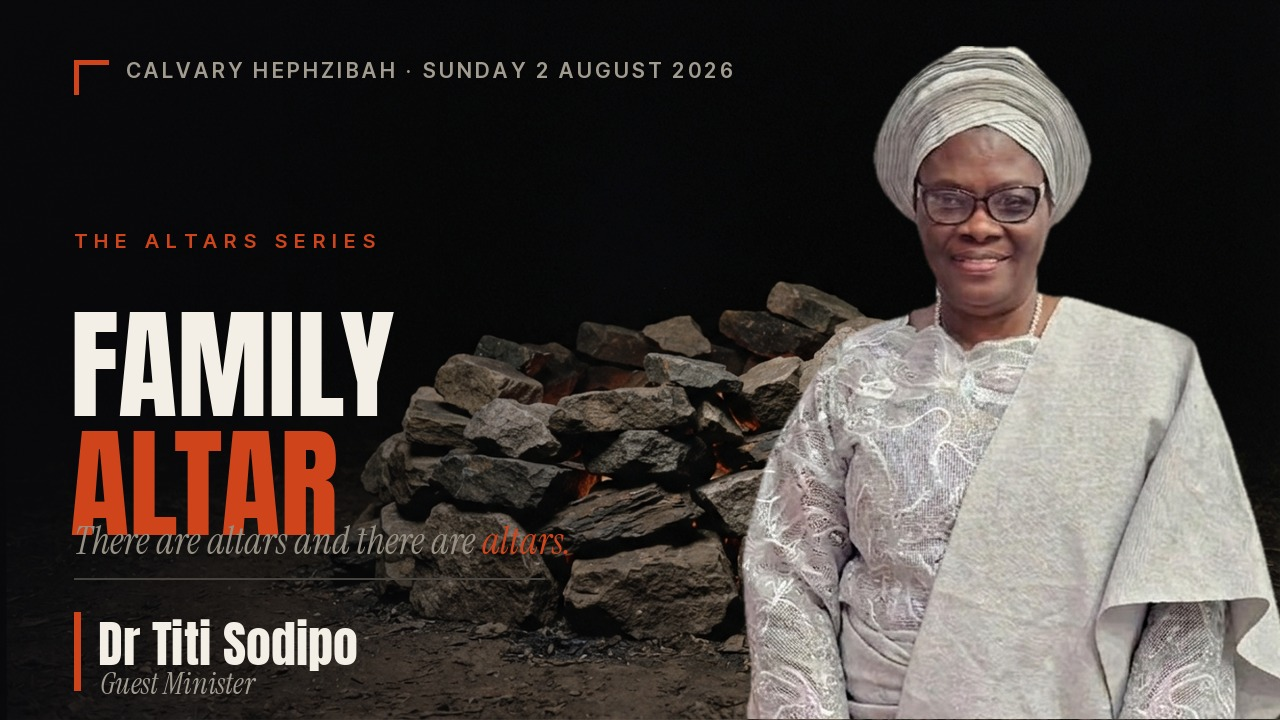
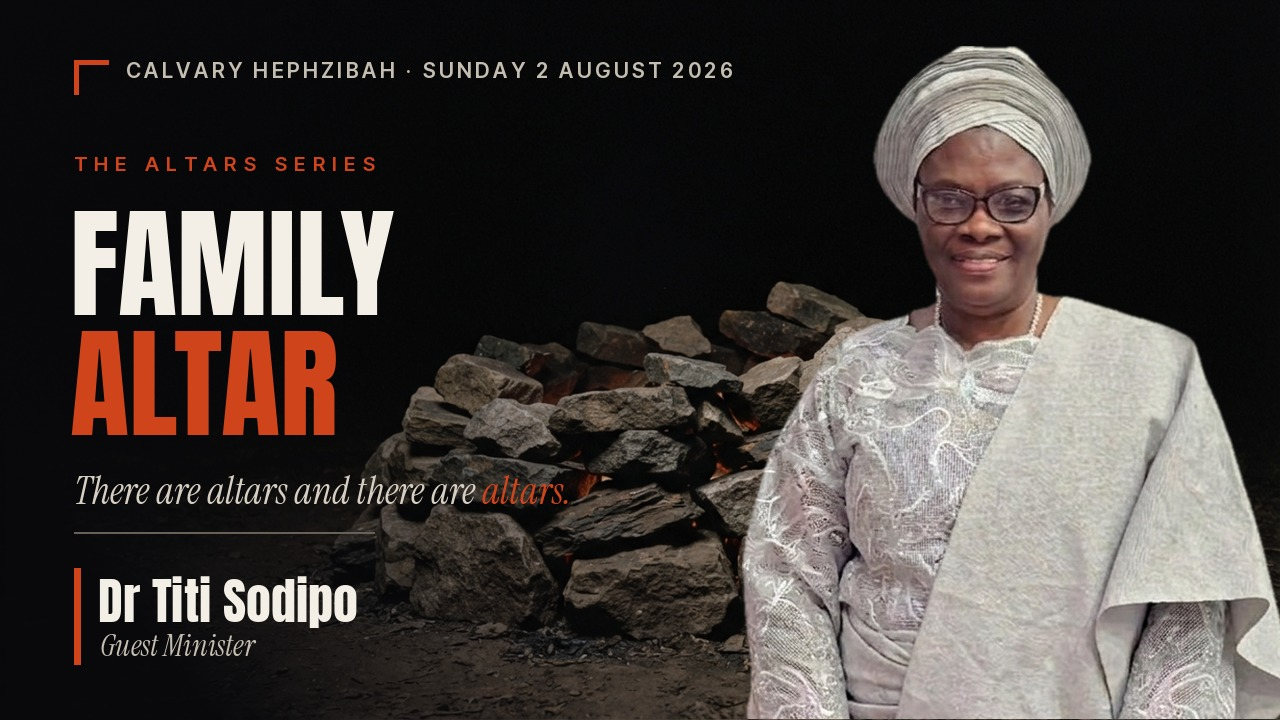
02 Aug 2026: Fix thumbnail spacing and contrast — ink-box layout, no title/series-line collision

diff --git a/media-briefing-02-aug-2026.html b/media-briefing-02-aug-2026.html
@@ -6,11 +6,11 @@
     <title>Calvary Service Run Sheet – 2nd August 2026</title>
     <meta property="og:title" content="Calvary Service Run Sheet – 2nd August 2026">
     <meta property="og:description" content="Sunday 2nd August 2026 | Family Altar | ALTARS series | Dr Titi Sodipo · Guest Minister | Calvary Hephzibah">
-    <meta property="og:image" content="https://calvaryhfgc.github.io/calvaryhephzibah/sermon-thumbnail-02-aug-2026.jpg?v=3">
+    <meta property="og:image" content="https://calvaryhfgc.github.io/calvaryhephzibah/sermon-thumbnail-02-aug-2026.jpg?v=4">
     <meta property="og:image:width" content="1280">
     <meta property="og:image:height" content="720">
     <meta name="twitter:card" content="summary_large_image">
-    <meta name="twitter:image" content="https://calvaryhfgc.github.io/calvaryhephzibah/sermon-thumbnail-02-aug-2026.jpg?v=3">
+    <meta name="twitter:image" content="https://calvaryhfgc.github.io/calvaryhephzibah/sermon-thumbnail-02-aug-2026.jpg?v=4">
     <link rel="preconnect" href="https://fonts.googleapis.com">
     <link rel="preconnect" href="https://fonts.gstatic.com" crossorigin>
     <link href="https://fonts.googleapis.com/css2?family=Cormorant+Garamond:wght@600;700&family=DM+Sans:wght@400;500;600;700&display=swap" rel="stylesheet">
@@ -243,7 +243,7 @@
             <div class="serm-preacher">Dr Titi Sodipo · Guest Minister</div>
             <h3 class="serm-title">Family Altar</h3>
             <div style="font-size:13px;color:rgba(255,255,255,0.6);margin-bottom:14px;">Passage TBC</div>
-            <img src="https://calvaryhfgc.github.io/calvaryhephzibah/sermon-thumbnail-02-aug-2026.jpg?v=3" alt="Dr Titi Sodipo — Family Altar" class="serm-thumb">
+            <img src="https://calvaryhfgc.github.io/calvaryhephzibah/sermon-thumbnail-02-aug-2026.jpg?v=4" alt="Dr Titi Sodipo — Family Altar" class="serm-thumb">
             <div class="serm-note"><span>💡</span><span>Display sermon thumbnail for 30 seconds as Dr Titi Sodipo comes up to preach.</span></div>
         </div>
     </div>

diff --git a/series/altars/render_altars_episode.py b/series/altars/render_altars_episode.py
@@ -21,8 +21,8 @@ from PIL import Image, ImageDraw, ImageFont, ImageEnhance
 W, H = 1280, 720
 BONE = (244, 239, 230)
 RED = (208, 68, 28)
-GREY = (162, 156, 144)
-FG3 = (150, 144, 132)
+GREY = (196, 189, 177)
+FG3 = (214, 206, 194)
 IS_URL = "https://raw.githubusercontent.com/google/fonts/main/ofl/instrumentserif/InstrumentSerif-Italic.ttf"
 
 
@@ -59,7 +59,13 @@ def render(a):
     # ---- left scrim so the type never fights the stones ----
     arr = np.array(img).astype(float)
     xs = np.linspace(0, 1, W)[None, :, None]
-    scrim = np.clip((a.scrim_edge - xs) / a.scrim_edge, 0, 1) ** 1.4 * a.scrim_strength
+    ys = np.linspace(0, 1, H)[:, None, None]
+    left = np.clip((a.scrim_edge - xs) / a.scrim_edge, 0, 1) ** 1.4
+    scrim = left * a.scrim_strength
+    # bottom-left falloff: the series line, rule and preacher block sit low-left,
+    # where stone highlights spike to ~120 and swallow the muted grey type.
+    floor = left * np.clip((ys - a.floor_start) / (1 - a.floor_start), 0, 1) ** 1.2 * a.floor_strength
+    scrim = np.clip(scrim + floor, 0, 0.985)
     arr = arr * (1 - scrim) + np.array([9, 9, 12], float) * scrim
     img = Image.fromarray(arr.clip(0, 255).astype(np.uint8))
 
@@ -84,11 +90,24 @@ def render(a):
     d.rectangle([LM, 60, LM + 4, 94], fill=RED)
     tracked(d, (LM + 52, 57), a.eyebrow, ImageFont.truetype(inter, 21), GREY, 0.16)
 
-    # ---- series badge ----
-    badge_y = a.top
-    tracked(d, (LM, badge_y), a.badge, ImageFont.truetype(inter, 20), RED, 0.36)
+    # ------------------------------------------------------------------
+    # Everything below is positioned by INK BOX, not by nominal line
+    # height. Anton carries a lot of internal leading, so laying out on
+    # nominal y collides the serif line into the title's descender zone.
+    # place(font, text, ink_top) -> the draw-y that puts ink at ink_top.
+    # ------------------------------------------------------------------
+    def place(font, text, ink_top):
+        return ink_top - font.getbbox(text)[1]
 
-    # ---- episode title, auto-fit to clear the portrait column ----
+    def ink_h(font, text):
+        b = font.getbbox(text)
+        return b[3] - b[1]
+
+    f_badge = ImageFont.truetype(inter, 20)
+    f_ser = instrument_serif(38)
+    f_name = ImageFont.truetype(anton, 50)
+    f_sub = instrument_serif(30)
+
     lines = [a.line1, a.line2] + ([a.line3] if a.line3 else [])
     cols = [BONE] * len(lines)
     cols[a.red - 1] = RED
@@ -99,29 +118,57 @@ def render(a):
             break
         size -= 2
     ft = ImageFont.truetype(anton, size)
-    lh = int(size * 0.98)
-    y = badge_y + 44
+
+    # --- bottom block anchors first, then the stack is built upward ---
+    name_top = H - a.margin_bottom - ink_h(f_name, a.preacher) - a.gap_name_sub - (
+        ink_h(f_sub, a.sub) if a.sub else 0)
+    sub_top = name_top + ink_h(f_name, a.preacher) + a.gap_name_sub
+    block_bot = (sub_top + ink_h(f_sub, a.sub)) if a.sub else (
+        name_top + ink_h(f_name, a.preacher))
+
+    rule_y = name_top - a.gap_rule_preacher
+    ser_top = rule_y - a.gap_series_rule - ink_h(f_ser, a.series_line)
+
+    title_bot = ser_top - a.gap_title_series
+    title_h = sum(ink_h(ft, t) for t in lines) + a.gap_title_lines * (len(lines) - 1)
+    title_top = title_bot - title_h
+    badge_top = title_top - a.gap_badge_title - ink_h(f_badge, a.badge)
+
+    # ---- series badge ----
+    tracked(d, (LM, place(f_badge, a.badge, badge_top)), a.badge, f_badge, RED, 0.36)
+
+    # ---- episode title ----
+    y = title_top
     for txt, col in zip(lines, cols):
-        d.text((LM - 4, y), txt, font=ft, fill=col)
-        y += lh
+        d.text((LM - 4, place(ft, txt, y)), txt, font=ft, fill=col)
+        y += ink_h(ft, txt) + a.gap_title_lines
 
     # ---- locked series line, final word in red ----
-    y += 6
-    fi = instrument_serif(38)
     head, tail = a.series_line.rsplit(" ", 1)
-    d.text((LM, y), head + " ", font=fi, fill=FG3)
-    d.text((LM + d.textlength(head + " ", font=fi), y), tail, font=fi, fill=RED)
+    sy = place(f_ser, a.series_line, ser_top)
+    d.text((LM, sy), head + " ", font=f_ser, fill=FG3)
+    d.text((LM + d.textlength(head + " ", font=f_ser), sy), tail, font=f_ser, fill=RED)
 
     # ---- hairline rule ----
-    ry = y + 62
-    d.rectangle([LM, ry, LM + 470, ry + 1], fill=(70, 66, 62))
+    # Deliberately short. A full-width rule runs out across the stone pile,
+    # where a dark hairline simply disappears. 300px keeps it in the scrimmed
+    # zone and reads as an editorial tick rather than a broken line.
+    rule_w = a.rule_width
+    d.rectangle([LM, rule_y, LM + rule_w, rule_y + 1], fill=(104, 97, 88))
 
-    # ---- preacher block ----
-    by = 612
-    d.rectangle([LM, by, LM + 6, by + 78], fill=RED)
-    d.text((LM + 24, by - 6), a.preacher, font=ImageFont.truetype(anton, 50), fill=BONE)
+    # ---- preacher block; the red bar spans the whole block ----
+    d.rectangle([LM, name_top - 8, LM + 6, block_bot + 8], fill=RED)
+    d.text((LM + 24, place(f_name, a.preacher, name_top)), a.preacher, font=f_name, fill=BONE)
     if a.sub:
-        d.text((LM + 26, by + 52), a.sub, font=instrument_serif(30), fill=GREY)
+        d.text((LM + 26, place(f_sub, a.sub, sub_top)), a.sub, font=f_sub, fill=GREY)
+
+    if a.audit:
+        print(f"  badge ink      {badge_top} -> {badge_top + ink_h(f_badge, a.badge)}")
+        print(f"  title ink      {title_top} -> {title_bot}  (size {size})")
+        print(f"  series ink     {ser_top} -> {ser_top + ink_h(f_ser, a.series_line)}")
+        print(f"  rule           {rule_y}")
+        print(f"  preacher ink   {name_top} -> {block_bot}")
+        print(f"  bottom margin  {H - block_bot}   left margin {LM}")
 
     img.save(a.out, quality=92)
     print(a.out)
@@ -140,9 +187,19 @@ if __name__ == "__main__":
     ap.add_argument("--preacher", required=True)
     ap.add_argument("--sub", default="")
     ap.add_argument("--portrait", default="")
-    ap.add_argument("--top", type=int, default=228)
+    ap.add_argument("--gap-badge-title", type=int, default=40)
+    ap.add_argument("--gap-title-lines", type=int, default=16)
+    ap.add_argument("--gap-title-series", type=int, default=40)
+    ap.add_argument("--gap-series-rule", type=int, default=28)
+    ap.add_argument("--gap-rule-preacher", type=int, default=44)
+    ap.add_argument("--gap-name-sub", type=int, default=6)
+    ap.add_argument("--margin-bottom", type=int, default=64)
+    ap.add_argument("--rule-width", type=int, default=300)
+    ap.add_argument("--audit", action="store_true")
     ap.add_argument("--plate-brightness", type=float, default=0.9)
     ap.add_argument("--scrim-edge", type=float, default=0.62)
     ap.add_argument("--scrim-strength", type=float, default=0.72)
+    ap.add_argument("--floor-start", type=float, default=0.55)
+    ap.add_argument("--floor-strength", type=float, default=0.60)
     ap.add_argument("--out", required=True)
     render(ap.parse_args())
